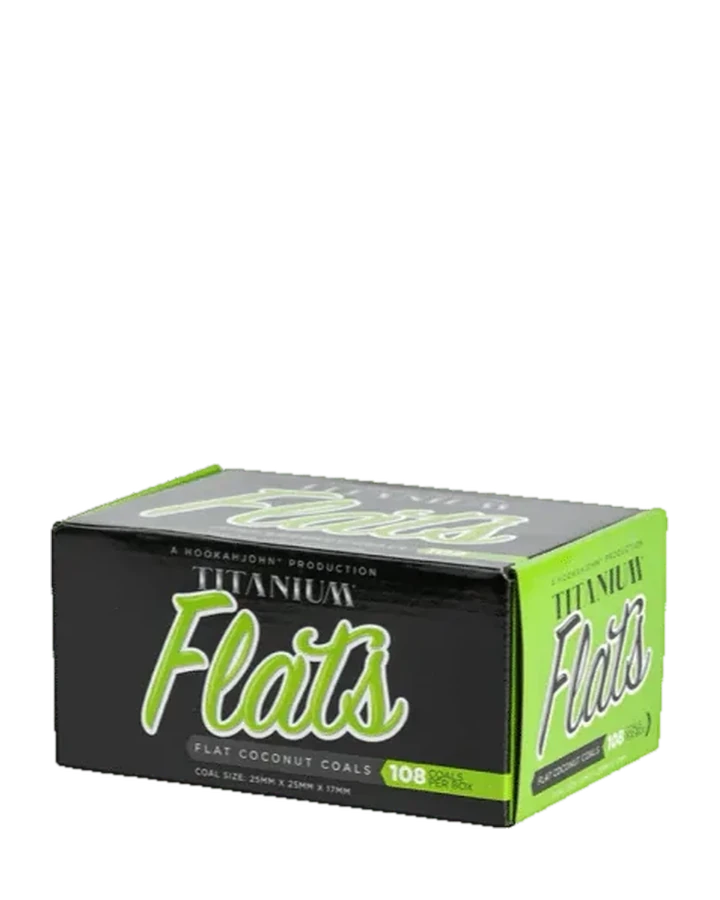
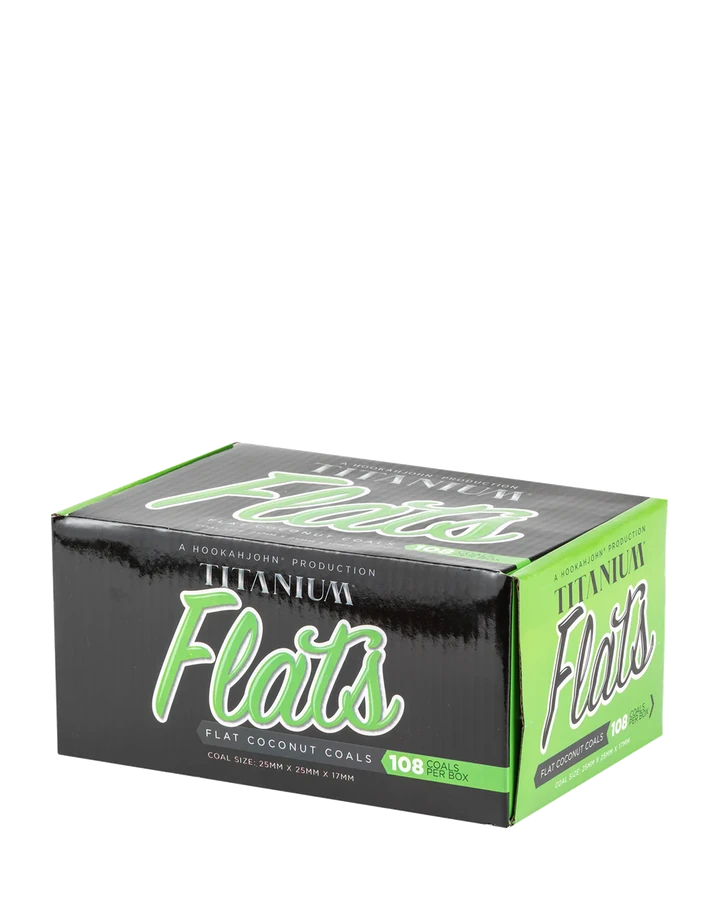
Web sweep batch 1: 7 charcoal photos replaced by sharper web photos of the exact same pack
Owner 2026-11-27: "if we can find a better photo of the product online we are going to use that photo even if it's from
another shop". Titanium Cubettes/Flats/Cubes (hookahjohn, the maker), Coco Army 90 and Zanobia 38 mm (zanobiaonline,
the maker), Coco Fuego Boss and Bermuda (thehookahshop). Each matched side by side against the live photo (count, size,
box design), cut off its background (Boss: convex hull of the printed box, off a grey floor and reflection) and framed
like the shop's cut-outs; Coco Army gets a 1440 -l. Sources and hashes in suppliers/charcoal-foil/web-photos.json.
Live SQL (not applied, guarded on img, safe twice, proven on a copy of the 2026-11-27 backup, in the seed list):
catalog/live/web-sweep-2026-11-27.sql. details.photo_src is dropped from the storefront data like the other shop notes.

Claude-Session: https://claude.ai/code/session_01E9pd4ZHmcwx6MYD1V7M6Jz

Changed region(s): [[0.0611, 0.4667, 0.9472, 0.9333]]

diff --git a/store/src/catalog.js b/store/src/catalog.js
@@ -97,7 +97,7 @@ export function toStorefront(cat) {
     // charcoal by its flag, or by its section: anything in Charcoal is charcoal, so moving an item into Charcoal in the
     // back office can never leave it shippable by a carrier (breaker, 2026-11-24)
     if (isCharcoalRow(p)) details.charcoal = true;   // also an item from the charcoal list, wherever the back office puts it
-    const coal = !!details.charcoal; delete details.photo_rights; delete details.photo_rejected; delete details.source_lines;   // shop-only notes stay in the back office
+    const coal = !!details.charcoal; delete details.photo_rights; delete details.photo_rejected; delete details.source_lines; delete details.photo_src;   // shop-only notes stay in the back office (photo_src: the web page a photo came from)
     if ("photo" in details && !PUBLIC_PHOTO.includes(details.photo)) delete details.photo;   // only the photo states a page shows; any other note on a photo stays in the back office
     const sale = sellable(p), facts = p.family ? shownFacts(p) : {};
     // a length the shop typed in the item editor (details.length, a shop column) replaces the catalogue's; the check tick stays in the back office

diff --git a/store/catalog/SCHEMA.md b/store/catalog/SCHEMA.md
@@ -81,6 +81,10 @@ site, who owns the image, source and product size, the Ace cut it stands for, sh
 keeps its files and gives it the status recorded there (`ready`, or `CHECK` when even the web original is enlarged past
 1.25x). The page URL goes to `photo.web_src` in the master and `facts_known.photo_src` in the row, so any photo can be swapped
 later. First batch: 13 Ace photos, 2026-11-27 (`catalog/live/web-photos-2026-11-27.sql`).
+The shop rows without a supplier photo pipeline (charcoal, foil, shisha: `OSS-9NNN`) record a web photo the same way in
+`suppliers/charcoal-foil/web-photos.json` (or `shisha/`), with its page URL in `details.photo_src` (private: the feed allowlist
+and the storefront drop it). Owner 2026-11-27: "if we can find a better photo of the product online we are going to use that
+photo even if it's from another shop". Web sweep: `catalog/live/web-sweep-2026-11-27.sql`.
 
 ## SKUs: OSS-SSNNNN
 
